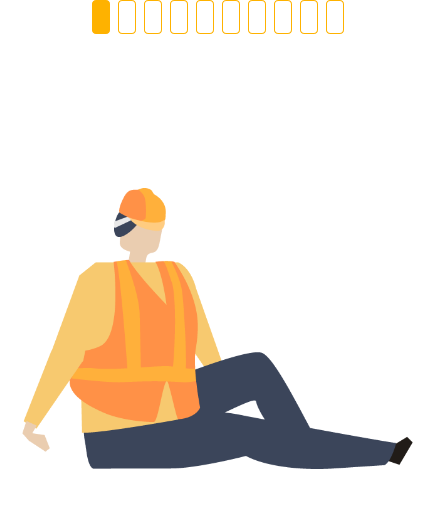
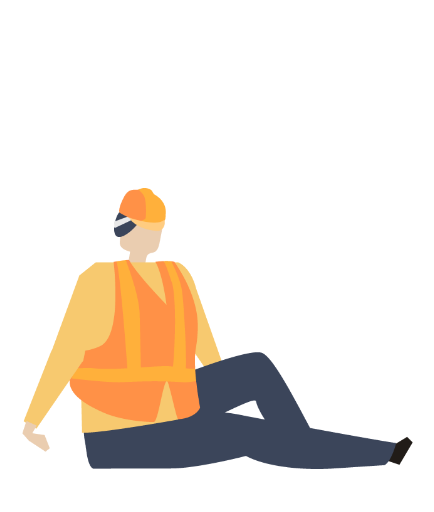
Fix detail

Changed region(s): [[0.2097, 0.0, 0.8088, 0.0938]]

diff --git a/css/style.css b/css/style.css
@@ -245,10 +245,15 @@ body, button, input, select, td, textarea, th {
     }
 
 /*광현 추가*/
+.worker{
+    position:relative;
+}
 .ani_gr_w {
     position: absolute;
     top: 10px;
-    left: 20px;
+    left: 0;
+    right: 0;
+    text-align: center;
 }
     .ani_gr{
         border:2px solid #FFB300;
@@ -453,63 +458,6 @@ body, button, input, select, td, textarea, th {
     }
 
 
-/* industry */
-.industry {
-    background: #303030;
-    color: #fff;
-    padding-bottom: 100px;
-}
-
-    .industry .section_title, .industry .section_subtit {
-        color: #fff;
-    }
-
-    .industry .layout {
-        display: flex;
-    }
-
-.worker, .state {
-    width: 50%;
-}
-
-    .worker img {
-        max-width: 434px;
-    }
-
-.state {
-    display: flex;
-    flex-direction: column;
-    justify-content: space-between;
-}
-
-.risk {
-    color: #DEDEDE;
-    margin-bottom: 24px;
-}
-
-    .risk .percent {
-        color: #FFB300;
-        font-size: 48px;
-        font-weight: 600;
-        padding-right: 12px;
-    }
-
-.message {
-    background: url(../img/quote0.svg) no-repeat top left;
-}
-
-    .message span {
-        display: inline-block;
-        padding: 40px;
-        font-size: 36px;
-        background: url(../img/quote1.svg) no-repeat bottom right;
-    }
-
-.industry .button {
-    position: relative;
-    width: 240px;
-    border: 2px solid #FFB300;
-}
 /* healthCare*/
 .healthCare{
 /*r광현 추가*/
@@ -524,7 +472,6 @@ body, button, input, select, td, textarea, th {
 }
 .care_item{
     overflow:hidden;
-    width:40%;
     text-align:center;
 }
 .care_item img {
@@ -546,101 +493,7 @@ body, button, input, select, td, textarea, th {
         color: #303030;
     }
 
-/* partner */
-.partner .layout {
-    display: flex;
-    flex-wrap: wrap;
-}
 
-.partner .member_wrap {
-    width: 49%;
-    display: flex;
-    justify-content: space-around;
-    padding: 18px 0;
-}
-
-    .partner .member_wrap:nth-child(2n+1) {
-        padding-right: 1%;
-    }
-
-    .partner .member_wrap:nth-child(2n) {
-        padding-left: 1%;
-    }
-
-.partner .img_wrap {
-    width: 50%;
-    padding-right: 24px;
-}
-
-.member_info .name {
-    margin-bottom: 20px;
-}
-
-    .member_info .name p {
-        font-size: 20px;
-        color: #606060;
-        font-weight: 600;
-    }
-
-.member_info .member_pos {
-    color: #FEB200;
-    padding-top: 4px;
-    font-size: 14px;
-    font-weight: bold;
-}
-
-.member_wrap .history {
-    font-size: 14px;
-}
-
-.partner_logo {
-    width: 23.5%;
-    padding-top: 36px;
-    margin-right: 2%;
-}
-
-    .partner_logo:nth-child(4n) {
-        margin-right: 0;
-    }
-/* contact */
-.contact {
-    padding-bottom: 100px;
-}
-
-    .contact .container {
-        background: #303030;
-        border-radius: 12px;
-        padding: 6%;
-        color: #fff;
-    }
-    .care_item .right:nth-child(1) {
-        background: linear-gradient(to right, rgba(0, 0, 0, .6), rgba(0, 0, 0, .4));
-        -webkit-background-clip: text;
-        -webkit-text-fill-color: transparent;
-    }
-    .care_item .right:nth-child(2) {
-        background: linear-gradient(to right, rgba(0, 0, 0, .4), rgba(0, 0, 0, .3));
-        -webkit-background-clip: text;
-        -webkit-text-fill-color: transparent;
-    }
-
-    .care_item .right:nth-child(3) {
-        background: linear-gradient(to right, rgba(0, 0, 0, .3), rgba(0, 0, 0, .2));
-        -webkit-background-clip: text;
-        -webkit-text-fill-color: transparent;
-    }
-
-    .care_item .right:nth-child(4) {
-        background: linear-gradient(to right, rgba(0, 0, 0, .2), rgba(0, 0, 0, .05));
-        -webkit-background-clip: text;
-        -webkit-text-fill-color: transparent;
-    }
-.care_item.side{
-    width:30%;
-    display:flex;
-    justify-content:space-between;
-    padding-bottom:42px;
-}
 /* industry */
 .industry {
     background: #303030;
@@ -754,15 +607,17 @@ body, button, input, select, td, textarea, th {
         margin-right: 0;
     }
 /* contact */
-.contact{
-    padding-bottom:100px;
+.contact {
+    padding-bottom: 100px;
 }
-.container {
-    background: #303030;
-    border-radius: 12px;
-    padding: 6%;
-    color: #fff;
-}
+
+    .contact .container {
+        background: #303030;
+        border-radius: 12px;
+        padding: 6%;
+        color: #fff;
+    }
+
 .contact input, .contact textarea {
     display: block;
     width: 100%;
@@ -777,30 +632,6 @@ body, button, input, select, td, textarea, th {
     margin:36px auto 0;
     background:#FFB300;
     cursor:pointer;
-}
-/* footer */
-footer {
-    padding: 36px 0;
-    border-top: 1px solid rgba(0,0,0,.05);
-    background: #303030;
-}
-
-.contact input, .contact textarea {
-    display: block;
-    width: 100%;
-    border-radius: 4px;
-    padding: 8px 12px;
-    margin: 6px 0 24px;
-}
-
-.contact textarea {
-    height: 240px;
-}
-
-.contact .button {
-    margin: 36px auto 0;
-    background: #FFB300;
-    cursor: pointer;
 }
 /* footer */
 footer {
@@ -975,7 +806,7 @@ footer {
         align-items: center;
     }
     .value .group{
-        width:222px;
+        width:262px;
     }
     /* healthCare */
     .care_item .item {
